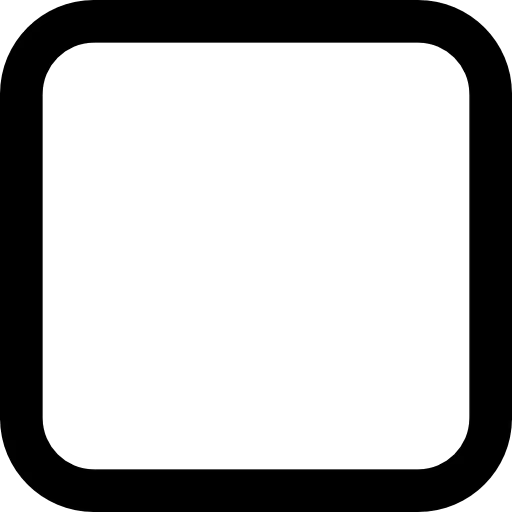
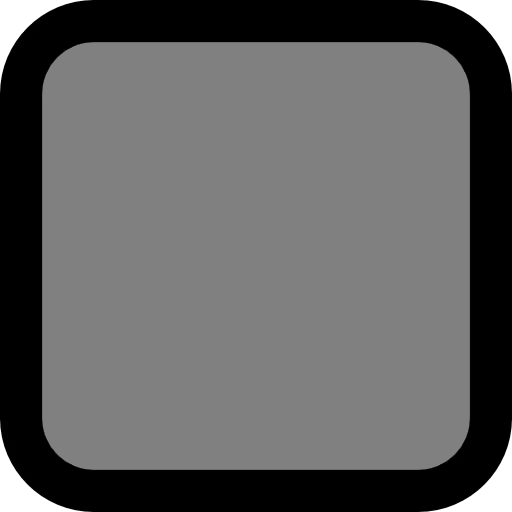
item slot is no longer transparent; item canvas hide automatically; phase armor first animation fixed; starting items generate correctly;

diff --git a/Assets/Scripts/Game.cs b/Assets/Scripts/Game.cs
@@ -59,8 +59,6 @@ public class Game : MonoBehaviour
         player.figure.savePoint = board.GetCell(Vector2Int.zero);
         await player.figure.Move(board.GetCell(Vector2Int.zero), isTeleport: true);
 
-        GenerateFigure(cellOrderList[4], weaponSamples.rnd());
-
         cellOrderList.ForEach(cell => SecondStep(cell));
 
         //PlaceGem();
@@ -250,6 +248,16 @@ public class Game : MonoBehaviour
     }
 
     public void AfterCellAdded(Cell cell) {
+        if (cell.order == 4) {
+            GenerateFigure(cell, weaponSamples.rnd());
+            return;
+        } else if (cell.order == 1) {
+            GenerateFigure(cell, itemSamples.Last());
+            return;
+        } else if (cell.order == 0) {
+            return;
+        }
+
         if (cell.order > 20 && Rand.rndEvent(0.1f)) {
             monsters.Add(GenerateFigure(cell, monsterSamples.rnd()));
         } else if (Rand.rndEvent(0.03f)) {

diff --git a/Assets/Scripts/Items/Item.cs b/Assets/Scripts/Items/Item.cs
@@ -11,6 +11,7 @@ public class Item : MonoBehaviour
 {
     public RectTransform iconParent;
     public RectTransform icon;
+    public Canvas iconCanvas;
     public ItemSlot slot;
 
     public GameObject model;
@@ -32,6 +33,8 @@ public class Item : MonoBehaviour
     }
 
     public void Awake() {
+        iconCanvas.enabled = false;
+
         GetComponent<Figure>().collide = async (from, figure) => {
             var player = figure.GetComponent<Player>();
             if (player != null && from != GetComponent<Figure>().location) {
